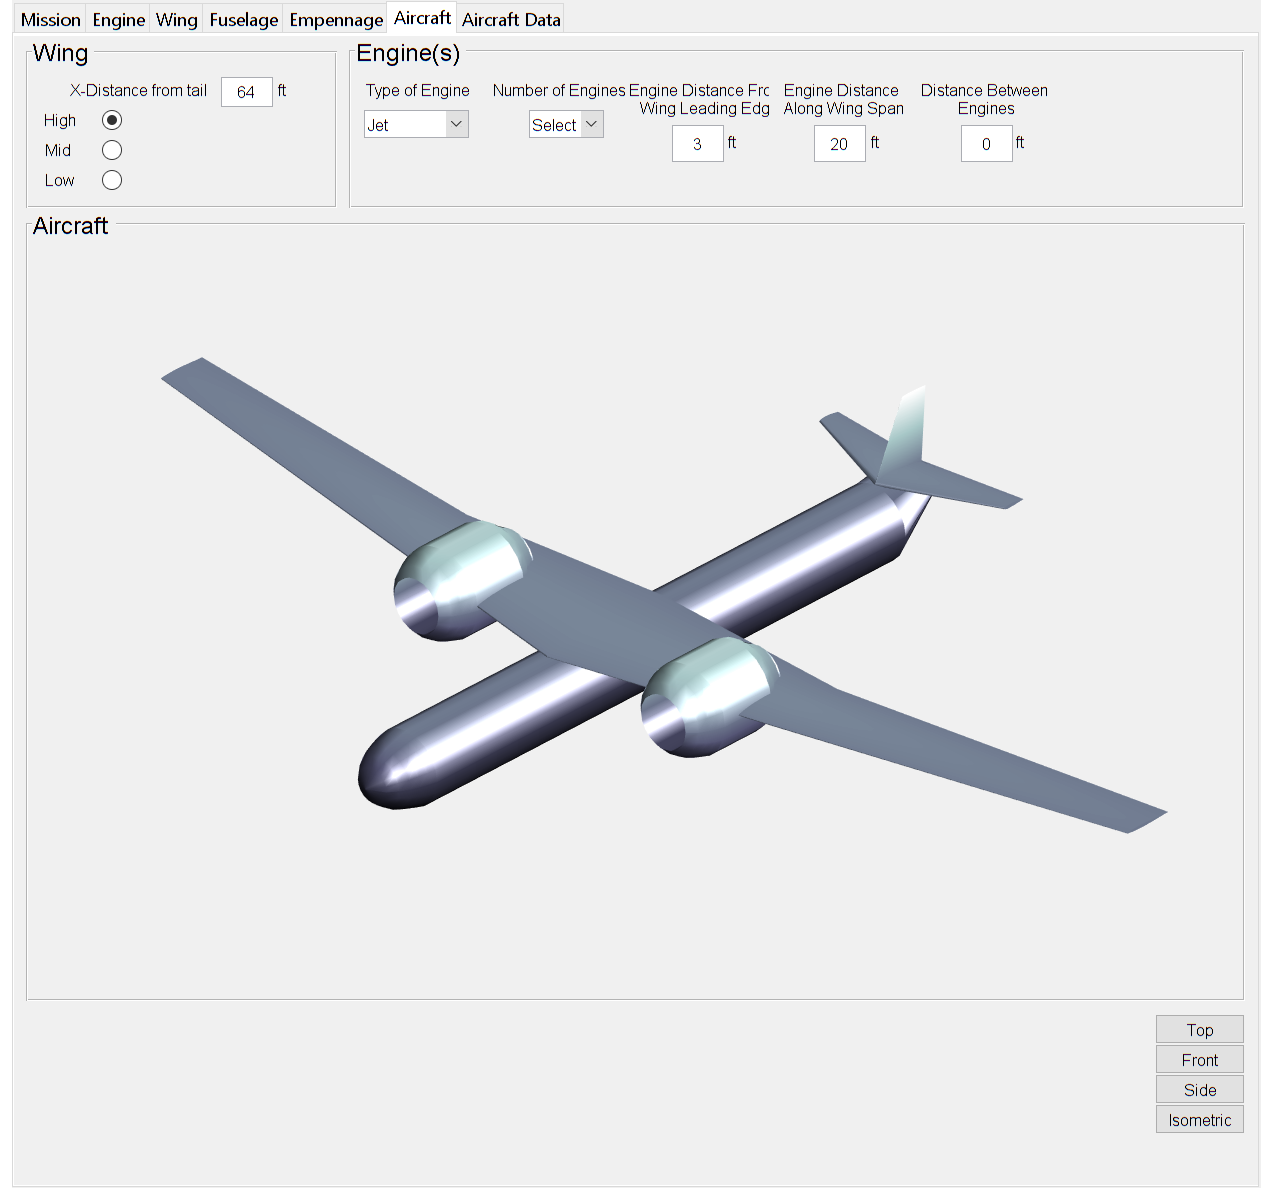
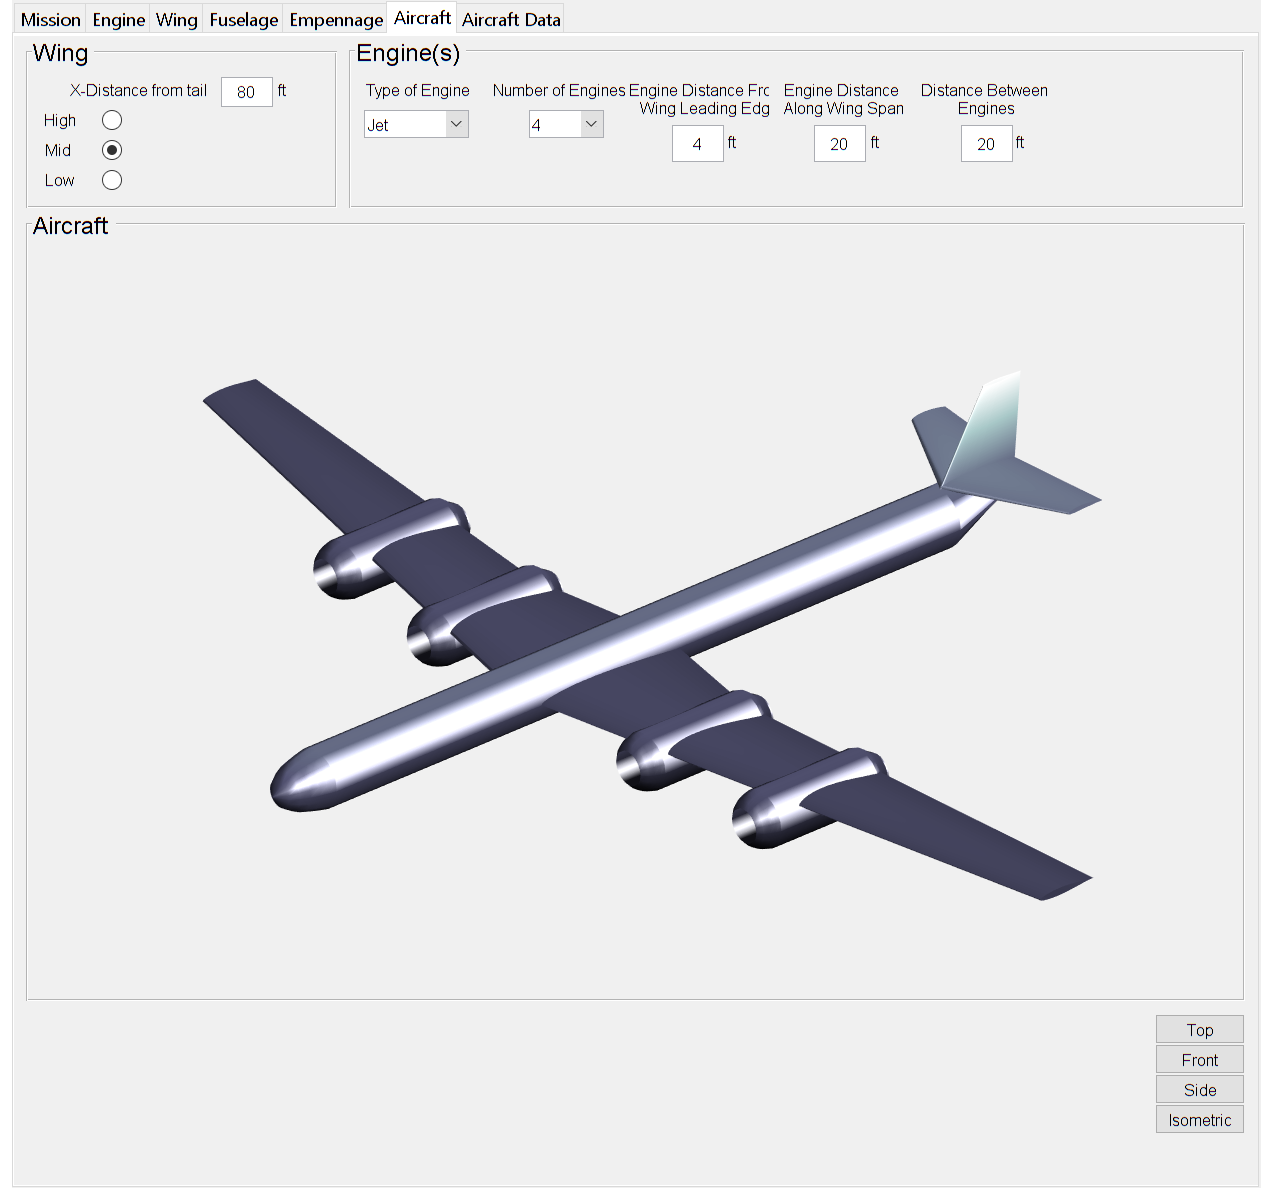
Updated PAC project and UAV sensor test page

Changed region(s): [[0.1224, 0.2775, 0.9176, 0.7708], [0.4282, 0.0925, 0.4588, 0.1233]]

diff --git a/projects/pac_concept.md b/projects/pac_concept.md
@@ -10,27 +10,41 @@ summary: ""
 ---
 <h3>Concept</h3>
 
-To design an aircraft an initial set of requirements are required. These are usually given in the RFP (Request for Proposal), however they can also be supplied by the aircraft designer to design an aircraft to meet a certain requirement. Therefore, the first step in PAC is inputting a set of requirements to design the aircraft around.
+To design an aircraft an initial set of requirements are required. These are usually given in the RFP (Request for Proposal), however they can also be supplied by the aircraft designer to design an aircraft to fulfill a certain role. Therefore, the first step in PAC is inputting a set of requirements to design the aircraft around.
 
 <h5>Mission Parameters</h5>
+Under "Mission Parameters", the user has options that are both generic and specific to each aircraft type. Parameters such as <i>range</i>, <i>takeoff length</i>, and <i>service ceiling</i> are the same for each aircraft type. While, parameters such as <i>passengers</i> or <i>maximum mach number</i> are specific to transport and military aircraft respectively.
+
+The takeoff weight estimation is calculated both from the historical data that is tabulated below and specific for each aircraft type, and the inputted aircraft parameters.
+
 <img class="img-fluid" src="../img/pac_project/mission.png">
 
+Once the estimate for the takeoff weight is determined, the constraint analysis is constructed and is used to determine the wing loading and thrust loading the aircraft is designed around.
 <img class="img-fluid" src="../img/pac_project/constraint_analysis.png">
 
 <h5>Engine Parameters</h5>
+Once an estimate for the thrust loading is determined, the engine that meets the necessary requirements can be selected under the "Engine" tab. Multiple engine manufacturers are listed and for each engine that has enough data to be used in PAC, that engine is tabulated as well.
 <img class="img-fluid" src="../img/pac_project/engine.png">
 
 <h5>Wing Parameters</h5>
+Once the wing loading estimate is found, the root and tip airfoils can be selected and the initial wing designed. From the wing loading, an estimate for the required wing area to generate sufficient lift is found. 
 <img class="img-fluid" src="../img/pac_project/airfoil_root.png">
 
 <img class="img-fluid" src="../img/pac_project/airfoil_tip.png">
 
 <img class="img-fluid" src="../img/pac_project/wing_initial.png">
 
+Under the "Final Wing Design" tab, the user can modify the planform shape of the wing. This allows the user to design a multi-segment wing relatively easily.
 <img class="img-fluid" src="../img/pac_project/wing_final.png">
 
+<h5>Fuselage Parameters</h5>
+After the wing is designed, the fuselage can be modeled. After specifying the fuselage length, radius, and nosecone length and tailcone length, the completed fuselage is shown. Currently only the "Fuselage Requirements" tab works. Future versions will allow for complex fuselage shapes, similar to the "Final Wing Design" tab.
+<img class="img-fluid" src="../img/pac_project/fuselage.png">
+
 <h5>Empennage Parameters</h5>
+After the fuselage is designed, the empennage can also be designed. Three different options can be selected: <i>Conventional</i>, <i>Cruciform</i>, or <i>T-Tail</i>. The design parameters for the horizontal and vertical tail are the same as the wing, with the vertical tail being half a wing.   
 <img class="img-fluid" src="../img/pac_project/empennage.png">
 
 <h5>Aircraft Parameters</h5>
+Finally, after designing all the components, the model of the aircraft is shown. Parameters such as wing location and distance from tail can be set. Also the designer can specify the type of engine (turboprop engines are not currently modeled), number of engines, the engine location from the leading edge, location along span and for multiple engines, distance between each engine.
 <img class="img-fluid" src="../img/pac_project/aircraft.png">

diff --git a/projects/uav_concepts.md b/projects/uav_concepts.md
@@ -111,6 +111,6 @@ Version 2.0 was designed with a focus on remaining compact while still attaching
 
 <h4>Version 3.0</h4>
 
-After I finished designing version 2.0, a thought occured to me, "what would a the battery system look like on a final production aircraft?" The biggest problem with both of the above approaches is that they are both mechanical solutions with a large number of components. Reliability becomes an issue on highly complex assemblies due to the increased points of failure. On an aircraft that is intended to fly continually for days or weeks at a time, designing a reliable system is imperative. Both version 1.0 and 2.0 are designed to solve a simple problem; attach and detach a battery rapidly, with minimal power, while supplying power to the aircraft. Therefore, I began looking at ways to eliminate all mechanical features in the design.
+After I finished designing version 2.0, a thought occured to me, "what would the battery system look like on a final production aircraft?" The biggest problem with both of the above approaches is that they are both mechanical solutions with a large number of components. Reliability becomes an issue on highly complex assemblies due to the increased points of failure. On an aircraft that is intended to fly continually for days or weeks at a time, designing a reliable system is imperative. Both version 1.0 and 2.0 are designed to solve a simple problem; attach and detach a battery rapidly, with minimal power loss, while supplying power to the aircraft. Therefore, I began looking at ways to eliminate all mechanical features in the design.
 
 I first started looking at using electromagnets to attach the batteries, however the large power requirements required to maintain the connection defeats the purpose of designing a system for maximum endurance. This is when I discovered <a href="Electropermanent_Magnets_Knaian.pdf">Electropermanent Magnets</a> and realized that they were perfect for my purpose.

diff --git a/projects/uav_sensor_test.md b/projects/uav_sensor_test.md
@@ -25,6 +25,15 @@ While the LIDAR has the required accuracy, the minimum distance of 5cm is too la
 Of the 3 regions, the short distance is the most important because it is the zone where the final docking is performed. Therefore, a high degree of accuracy and precision is required to ensure a repeatable system. To develop a precise method of control, testing is necessary to determine the optimal placement of sensors and whether the sensors can accurately detect movement.
 
 <h4>Test Concept</h4>
+The initial concept consisted with sensors mounted on a pivot on both sides of the M-1 and R-1 models. The idea was to ensure accurate distance measurements within the Y-Z plane of the two test pieces. The next iteration would involve sensors mounted on pivots on the front and rear of the M-1 and R-1 models to get measurements within the X-Z plane. However, this configuration doesn't account for any rotation outside of these planes. 
+
+The next iteration consisted of sensors mounted in a "X" pattern on R-1 to easily account for any changes in rotation, and the distance measurements were obtained by adjusting the angle of the sensors relative to the M-1 model.
+
+<div class="text-center p-2">
+	<img width="600px" src="../img/uav_project/sensor_test/sensor_test_v1.png">
+	<img width="600px" src="../img/uav_project/sensor_test/sensor_test_v2.png">
+</div>
+
 For an initial test, I wanted to see how much the measured distance deviated from the actual distance of the model. A test rig was constructed to hold the M-1 model steady at a fixed height above the R-1 model. The movement of R-1 was limited along the X-Y axis by following increments marked on the grid of a foam board. This allowed the measured ToF distance to be compared with the actual location marked on the board.
 
 <h5>Sketch of Test Rig</h5>

diff --git a/projects/pac_background.md b/projects/pac_background.md
@@ -30,4 +30,4 @@ It turns out it wasn't that difficult at all. The horizontal and vertical tails,
 
 <img class="img-fluid" src="../img/pac_project/first_aircraft.png">
 
-At this point you might forgiven for thinking this was the end of the project, however it was actually just the beginning. I realized that as cool as it was to "model" an aircraft in MATLAB, I actually wasn't really doing anything, nothing was being calculated or analyzed. Also strictly speaking, it wasn't even really modeling because I lacked control over a bunch of variables. To really model an aircraft I had to start at the very beginning and work through each step in aircraft design to truly "model" an aircraft. 
+At this point you might be forgiven for thinking this was the end of the project, however it was actually just the beginning. I realized that as cool as it was to "model" or "design" an aircraft in MATLAB, I actually wasn't really doing anything, nothing was being calculated or analyzed. Also, it wasn't even really designing because I lacked any sort of requirements definition. To really design an aircraft I had to start at the very beginning and work through each step in aircraft design to truly "design" an aircraft. 

diff --git a/projects/uav_project.md b/projects/uav_project.md
@@ -1,7 +1,7 @@
 ---
 layout: project
 type: project
-image: img/uav_project/Combined_Aircraft.png
+image: img/uav_project/Combined Aircraft-Undocked Iso.png
 title: "UAV Project"
 date: 2019
 published: True
@@ -16,10 +16,10 @@ labels:
   - Control System Design
   - Electric Motor Design
   - Data Acquisition and Analysis
-summary: "An independent project where I am designing an autonomous UAV capable of flying 24/7 by performing an in-flight battery transfer. "
+summary: "An autonomous UAV capable of flying 24/7 by performing an in-flight battery swap with a quadcopter. "
 ---
 
-<img class="img-fluid" src="../img/uav_project/Combined_Aircraft.png">
+<img class="img-fluid" src="../img/uav_project/Combined Aircraft-Undocked Iso.png">
 
 <h3>Project Overview</h3>
 
@@ -29,4 +29,4 @@ summary: "An independent project where I am designing an autonomous UAV capable 
 
 <a href="uav_sensor_test.html">Sensor Test</a>
 
-<a href="magnets.html">Attachment Concepts</a>
+<!-- <a href="magnets.html">Attachment Concepts</a> -->

diff --git a/projects/capstone_project.md b/projects/capstone_project.md
@@ -10,7 +10,7 @@ labels:
   - 3D Modeling
   - 3D Printing
   - Wind-Tunnel Testing
-summary: "Senior capstone project where we designed a supersonic business jet capable of 7,500NM at Mach 2.2 with 80 passengers."
+summary: "Senior capstone project where we designed a supersonic business jet capable of traveling 7,500NM at Mach 2.2 with 80 passengers."
 ---
 
 <img class="img-fluid" src="../img/capstone/Top.png">
